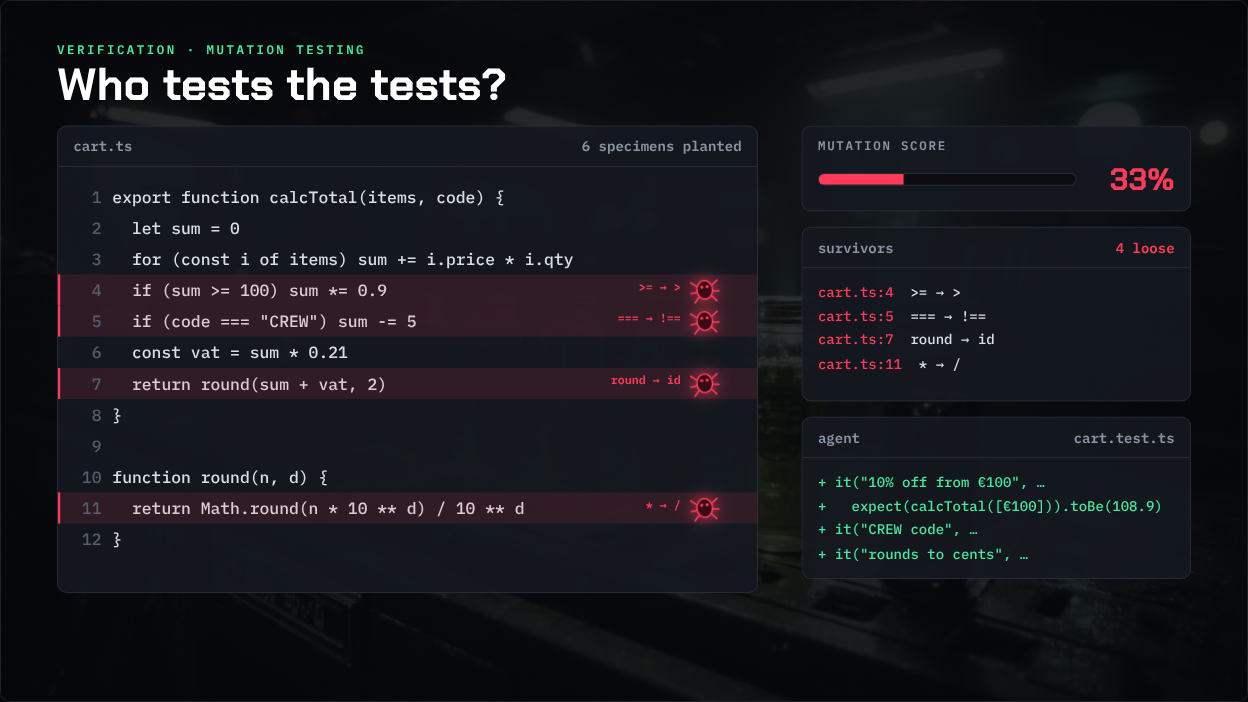
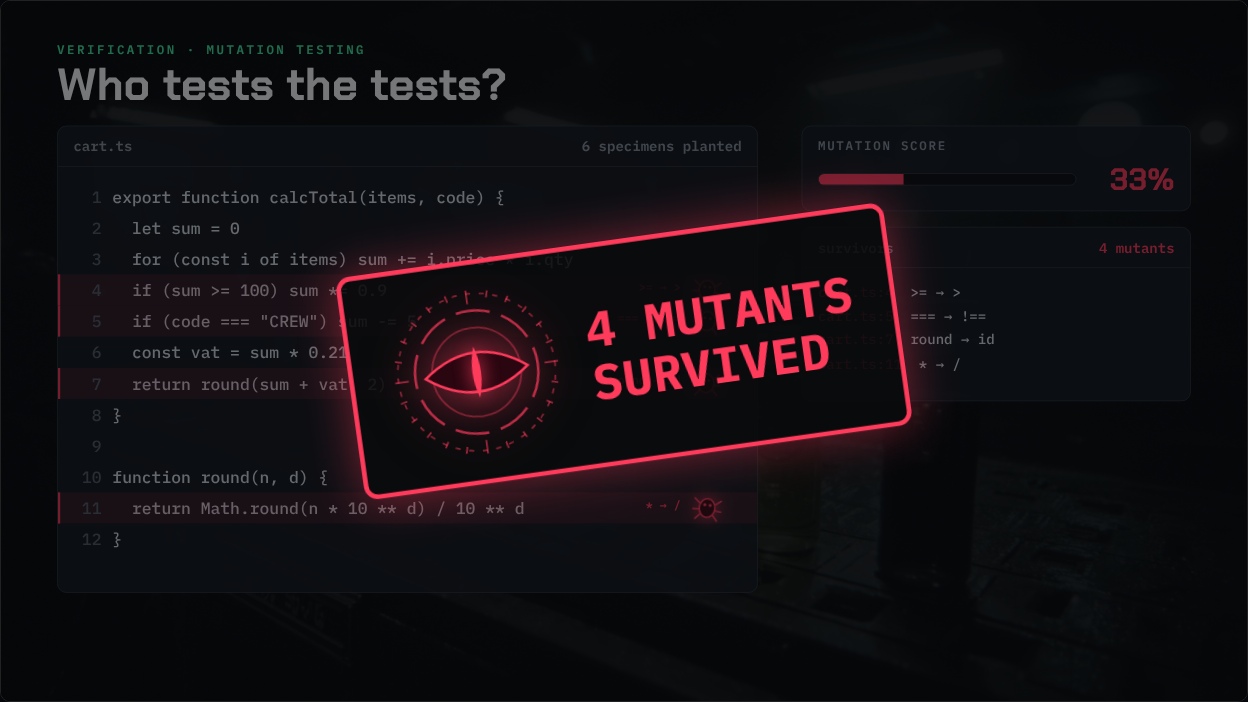
Mockups: containment sweep with survived/contain stamps
Claude-Session: https://claude.ai/code/session_018ZYY6z7sRsnPFYzF51Bdn7

diff --git a/mockups/mutation.html b/mockups/mutation.html
@@ -85,7 +85,23 @@ pre { margin: 0; padding: 16px 20px; font: 500 22px/1.6 var(--mono); color: var(
 .b .side { position: absolute; right: 72px; top: 160px; width: 500px; display: flex; flex-direction: column; gap: 20px; }
 .b .gauge { width: auto; }
 .b .surv pre { font-size: 18px; line-height: 1.7; min-height: 170px; }
-.b .agent pre { font-size: 18px; line-height: 1.7; min-height: 130px; color: var(--awake); }
+.b .ov { position: absolute; inset: 0; z-index: 5; display: flex; align-items: center; justify-content: center; pointer-events: none; opacity: 0; background: rgba(5,7,10,.55); transition: opacity .35s; }
+.b .ov.show { opacity: 1; }
+.b .stamp { display: flex; align-items: center; gap: 36px; padding: 28px 48px; border: 6px solid var(--c); border-radius: 18px; color: var(--c); background: rgba(8,9,11,.85);
+  font: 900 64px/1.05 var(--mono); text-transform: uppercase; box-shadow: 0 0 60px var(--g); transform: rotate(-8deg) scale(1.6); opacity: 0; }
+.b .ov.show .stamp { animation: thump .45s cubic-bezier(.3,1.6,.5,1) forwards; }
+@keyframes thump { to { transform: rotate(-8deg) scale(1); opacity: 1; } }
+.b .stamp small { display: block; font-size: 30px; font-weight: 700; margin-top: 10px; letter-spacing: .06em; }
+.b .ov.red .stamp { --c: var(--alien); --g: rgba(255,59,92,.45); }
+.b .ov.green .stamp { --c: var(--awake); --g: rgba(69,230,160,.4); font-size: 52px; max-width: 1200px; }
+.alien { display: block; width: 220px; height: 220px; overflow: visible; flex: none; filter: drop-shadow(0 0 30px rgba(255,59,92,.75)); }
+.alien circle { fill: none; stroke: var(--alien); }
+.alien .a-r1 { stroke-width: 2; opacity: .5; stroke-dasharray: 6 10; }
+.alien .a-r2 { stroke-width: 3; opacity: .7; stroke-dasharray: 40 14; }
+.alien .a-r3 { stroke-width: 2; opacity: .4; }
+.alien .a-eye { fill: #2a0610; stroke: var(--alien); stroke-width: 3; }
+.alien .a-pupil { fill: var(--alien); filter: drop-shadow(0 0 10px var(--alien)); }
+.alien .a-ticks line { stroke: var(--alien); stroke-width: 2; opacity: .6; }
 .pop { position: absolute; width: 10px; height: 10px; border-radius: 50%; background: var(--phos); pointer-events: none; }
 
 /* C */
@@ -150,15 +166,16 @@ pre { margin: 0; padding: 16px 20px; font: 500 22px/1.6 var(--mono); color: var(
 <div class="ctl"><button data-act="prev">prev</button><button data-act="next">next</button><button data-act="reset">reset</button><span class="cap"></span></div>
 
 <h2>B · Containment sweep</h2>
-<p class="note">Mutants are specimens planted on lines of the code. The suite sweeps the hull: caught ones pop, missed ones turn red and crawl. Survivors go to the agent, it writes the missing tests, sweep again.</p>
+<p class="note">Mutants are specimens planted on lines of the code. The suite sweeps the hull: caught ones pop, missed ones turn red and crawl. Red stamp: 4 mutants survived. Green stamp: tests being added. Sweep again.</p>
 <div class="wrap" data-steps="3" data-kind="b"><div class="slide b">
   <div class="hd"><small>Verification · Mutation testing</small><h3>Who tests the tests?</h3></div>
   <div class="card hull"><div class="card-h"><span>cart.ts</span><span>6 specimens planted</span></div><pre class="src"></pre></div>
   <div class="side">
     <div class="card gauge" style="--col: var(--alien)"><label>mutation score</label><div class="row"><div class="bar"><i></i></div><b class="n">–</b></div></div>
     <div class="card surv"><div class="card-h"><span>survivors</span><span class="red sn"></span></div><pre></pre></div>
-    <div class="card agent" data-s="2"><div class="card-h"><span>agent</span><span>cart.test.ts</span></div><pre></pre></div>
   </div>
+  <div class="ov red"><div class="stamp"><svg class="alien" viewBox="-100 -100 200 200"><circle class="a-r1" r="92"/><circle class="a-r2" r="72"/><circle class="a-r3" r="52"/><path class="a-eye" d="M-60 0 Q0 -46 60 0 Q0 46 -60 0Z"/><path class="a-pupil" d="M0 -30 Q10 0 0 30 Q-10 0 0 -30Z"/><g class="a-ticks"><line x1="0" y1="-96" x2="0" y2="-80" transform="rotate(0)"/><line x1="0" y1="-96" x2="0" y2="-88" transform="rotate(15)"/><line x1="0" y1="-96" x2="0" y2="-88" transform="rotate(30)"/><line x1="0" y1="-96" x2="0" y2="-88" transform="rotate(45)"/><line x1="0" y1="-96" x2="0" y2="-88" transform="rotate(60)"/><line x1="0" y1="-96" x2="0" y2="-88" transform="rotate(75)"/><line x1="0" y1="-96" x2="0" y2="-80" transform="rotate(90)"/><line x1="0" y1="-96" x2="0" y2="-88" transform="rotate(105)"/><line x1="0" y1="-96" x2="0" y2="-88" transform="rotate(120)"/><line x1="0" y1="-96" x2="0" y2="-88" transform="rotate(135)"/><line x1="0" y1="-96" x2="0" y2="-88" transform="rotate(150)"/><line x1="0" y1="-96" x2="0" y2="-88" transform="rotate(165)"/><line x1="0" y1="-96" x2="0" y2="-80" transform="rotate(180)"/><line x1="0" y1="-96" x2="0" y2="-88" transform="rotate(195)"/><line x1="0" y1="-96" x2="0" y2="-88" transform="rotate(210)"/><line x1="0" y1="-96" x2="0" y2="-88" transform="rotate(225)"/><line x1="0" y1="-96" x2="0" y2="-88" transform="rotate(240)"/><line x1="0" y1="-96" x2="0" y2="-88" transform="rotate(255)"/><line x1="0" y1="-96" x2="0" y2="-80" transform="rotate(270)"/><line x1="0" y1="-96" x2="0" y2="-88" transform="rotate(285)"/><line x1="0" y1="-96" x2="0" y2="-88" transform="rotate(300)"/><line x1="0" y1="-96" x2="0" y2="-88" transform="rotate(315)"/><line x1="0" y1="-96" x2="0" y2="-88" transform="rotate(330)"/><line x1="0" y1="-96" x2="0" y2="-88" transform="rotate(345)"/></g></svg><div>4 mutants<br>survived</div></div></div>
+  <div class="ov green"><div class="stamp"><div>Implementing additional tests<small>to contain the mutants</small></div></div></div>
 </div></div>
 <div class="ctl"><button data-act="prev">prev</button><button data-act="next">next</button><button data-act="reset">reset</button><span class="cap"></span></div>
 
@@ -205,7 +222,7 @@ pre { margin: 0; padding: 16px 20px; font: 500 22px/1.6 var(--mono); color: var(
 <script>
 const CAPS = {
   a: ['Agent-written tests. Three passed. <span class="g">100% coverage.</span>', 'Look closer: they can’t fail.', 'Mutate the code. <b>Every mutant survives.</b>', 'Coverage says the line ran. <b>Mutants ask if anyone noticed.</b>'],
-  b: ['Plant mutants in the code. Each one is a small, deliberate bug.', 'Run the suite. <b>Two out of three get away.</b>', 'Hand the survivors to the agent. It writes the missing tests.', 'Sweep again. <span class="g">Contained.</span>'],
+  b: ['Plant mutants in the code. Each one is a small, deliberate bug.', 'Run the suite. <b>Four get away.</b>', 'The agent implements additional tests to contain them.', 'Sweep again. <span class="g">Contained.</span>'],
   c: ['Every blip is a mutant.', 'The suite sweeps. <b>The ones that don’t die are lines nobody guards.</b>', 'Survivors go to the agent. It writes the tests.', '<span class="g">All clear.</span> Every PR, every night.'],
   d: ['A red test. The agent is asked to fix it.', 'It fixes the <b>test</b>.', 'Mutants don’t care how green it looks.', 'Deterministic guardrails: the agent can’t talk its way past them.'],
 };
@@ -238,7 +255,6 @@ const B = {
     ['  return Math.round(n * 10 ** d) / 10 ** d', '* → /', false],
     ['}'],
   ],
-  TESTS: ['+ it("10% off from €100", …', '+   expect(calcTotal([€100])).toBe(108.9)', '+ it("CREW code", …', '+ it("rounds to cents", …'],
   build(el) {
     const pre = el.querySelector('.src');
     pre.innerHTML = B.src.map((l, i) => `<div style="position:relative"><div class="linehl" style="top:0"></div><span class="ln">${i + 1}</span>${l[0].replace(/</g, '&lt;') || ' '}${l[1] ? `<div class="spec" data-i="${i}" style="top:0"><span class="mt">${l[1].replace(/>/g, '&gt;')}</span>${SPEC}</div>` : ''}</div>`).join('') + '<div class="scan"></div>';
@@ -246,15 +262,16 @@ const B = {
   async set(el, st, live) {
     const tok = el._tok = (el._tok || 0) + 1, ok = () => el._tok === tok;
     const specs = [...el.querySelectorAll('.spec')], scan = el.querySelector('.scan');
-    const surv = el.querySelector('.surv pre'), sn = el.querySelector('.sn'), agent = el.querySelector('.agent pre');
+    const surv = el.querySelector('.surv pre'), sn = el.querySelector('.sn'), ovR = el.querySelector('.ov.red'), ovG = el.querySelector('.ov.green');
+    const flash = async (ov, ms = 2600) => { ov.classList.add('show'); await sleep(ms); if (ok()) ov.classList.remove('show'); };
     const gi = el.querySelector('.gauge i'), gn = el.querySelector('.gauge .n'), gauge = el.querySelector('.gauge');
     const killedFirst = i => B.src[i][2];
     const survList = () => specs.filter(s => !killedFirst(+s.dataset.i));
     const score = p => { gi.style.setProperty('--w', p + '%'); gn.textContent = p + '%'; gauge.style.setProperty('--col', p === 100 ? 'var(--awake)' : 'var(--alien)'); };
-    const listSurv = () => { surv.innerHTML = survList().map(s => `<span class="red">cart.ts:${+s.dataset.i + 1}</span>  ${B.src[s.dataset.i][1].replace(/>/g, '&gt;')}`).join('\n'); sn.textContent = survList().length + ' loose'; };
+    const listSurv = () => { surv.innerHTML = survList().map(s => `<span class="red">cart.ts:${+s.dataset.i + 1}</span>  ${B.src[s.dataset.i][1].replace(/>/g, '&gt;')}`).join('\n'); sn.textContent = survList().length + ' mutants'; };
     const hl = (s, on) => s.parentElement.querySelector('.linehl').classList.toggle('on', on);
     specs.forEach(s => { s.className = 'spec'; hl(s, false); });
-    surv.innerHTML = ''; sn.textContent = ''; agent.innerHTML = ''; gi.style.setProperty('--w', '0%'); gn.textContent = '–'; gauge.style.setProperty('--col', 'var(--alien)');
+    surv.innerHTML = ''; sn.textContent = ''; ovR.classList.remove('show'); ovG.classList.remove('show'); gi.style.setProperty('--w', '0%'); gn.textContent = '–'; gauge.style.setProperty('--col', 'var(--alien)');
     scan.getAnimations().forEach(a => a.cancel());
     const finalB = () => { specs.forEach(s => { if (killedFirst(+s.dataset.i)) s.classList.add('dead'); else { s.classList.add('alive'); hl(s, true); } }); listSurv(); score(33); };
     const sweep = async (kill) => {
@@ -271,16 +288,10 @@ const B = {
     if (st === 1) {
       if (!live) return finalB();
       await sweep(i => killedFirst(i) ? 'die' : 'live'); if (!ok()) return;
-      listSurv(); score(33); return;
+      listSurv(); score(33); await sleep(500); if (!ok()) return; flash(ovR); return;
     }
     finalB();
-    if (st === 2) {
-      const lines = B.TESTS;
-      if (!live) { agent.textContent = lines.join('\n'); return; }
-      for (const l of lines) { await sleep(450); if (!ok()) return; agent.textContent += (agent.textContent ? '\n' : '') + l; }
-      return;
-    }
-    agent.textContent = B.TESTS.join('\n');
+    if (st === 2) { if (live) flash(ovG); return; }
     if (!live) { specs.forEach(s => { s.className = 'spec dead'; hl(s, false); }); surv.innerHTML = '<span class="green">none</span>'; sn.textContent = ''; score(100); return; }
     await sweep(i => killedFirst(i) ? null : 'die'); if (!ok()) return;
     surv.innerHTML = '<span class="green">none</span>'; sn.textContent = ''; score(100);
